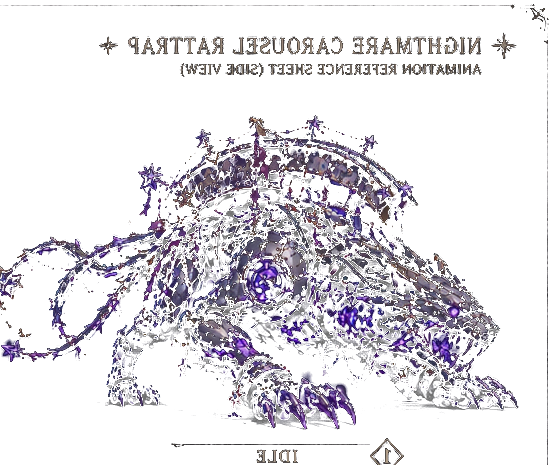
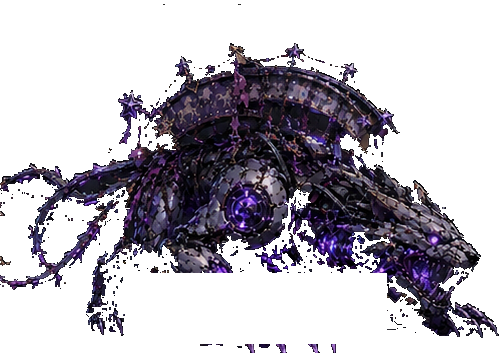
fix(assets): resolve boss opacity, remove stray text, scale up characters

diff --git a/src/main.js b/src/main.js
@@ -706,8 +706,8 @@ for (let key in GAME_ASSETS) {
             const player = {
                 x: 200,
                 y: GROUND_Y,
-                width: 32,
-                height: 56,
+                width: 65,
+                height: 135,
                 vx: 0,
                 speed: 4.0,
                 direction: 1, 
@@ -734,8 +734,8 @@ for (let key in GAME_ASSETS) {
             const boss = {
                 x: 600,
                 y: GROUND_Y,
-                width: 70,
-                height: 95,
+                width: 185,
+                height: 230,
                 state: 'idle', 
                 stateTimer: 60, // 最初は少し待機
                 currentPattern: null, 
@@ -830,6 +830,13 @@ for (let key in GAME_ASSETS) {
                 if (!BOSS_ARCHETYPES[type]) return;
                 boss.archetype = type;
                 const config = BOSS_ARCHETYPES[type];
+                if (type === 'hound') {
+                    boss.width = 185;
+                    boss.height = 230;
+                } else if (type === 'harpy') {
+                    boss.width = 140;
+                    boss.height = 215;
+                }
                 boss.maxHp = config.maxHp;
                 boss.hp = config.maxHp;
                 boss.lagHp = config.maxHp; // ラグバー初期化
@@ -940,7 +947,9 @@ for (let key in GAME_ASSETS) {
                 if (isShadow) {
                     ctx.save();
                     ctx.translate(x, drawY);
-                    ctx.scale(direction * 0.9, 0.9);
+                    let targetHeight = 160;
+                    let scale = targetHeight / img.height;
+                    ctx.scale(direction * 0.9 * scale, 0.9 * scale);
                     
                     // 残像のエフェクト加工（加算ブレンドとグロー）
                     ctx.globalCompositeOperation = 'screen';
@@ -956,7 +965,7 @@ for (let key in GAME_ASSETS) {
                 ctx.rotate(rotation);
 
                 // 高さをおよそ 85px にリサイズ（アス比維持）
-                let targetHeight = 85;
+                let targetHeight = 160;
                 let scale = targetHeight / img.height;
                 ctx.scale(scale * direction * scaleX, scale * scaleY);
 
@@ -1084,7 +1093,9 @@ for (let key in GAME_ASSETS) {
                         player.direction = toBossDir;
                         
                         const dist = Math.abs(boss.x - player.x);
-                        if (dist > 80 && dist < 240) {
+                        const minAssistDist = (player.width / 2) + (boss.width / 2) - 10;
+                        const maxAssistDist = minAssistDist + 180;
+                        if (dist > minAssistDist && dist < maxAssistDist) {
                             player.vx = toBossDir * 7.5; 
                         } else {
                             player.vx = 0;
@@ -1193,8 +1204,9 @@ for (let key in GAME_ASSETS) {
                     boss.x += boss.facing * 2.2 * speedFactor;
                     boss.x = Math.max(80, Math.min(CANVAS_WIDTH - 80, boss.x));
                     
-                    // プレイヤーとの距離が120px以下になったら、立ち止まって戦闘態勢（idle）へ
-                    if (dist <= 120) {
+                    // プレイヤーとの距離が適正値以下になったら、立ち止まって戦闘態勢（idle）へ
+                    const colDist = (player.width / 2) + (boss.width / 2) - 25;
+                    if (dist <= colDist + 50) {
                         boss.state = 'idle';
                         // 次の攻撃を繰り出すまでのディレイ（1.2秒〜2.0秒程度）を設定してテンポを遅くする
                         boss.stateTimer = Math.random() * 48 + 72;
@@ -1340,12 +1352,13 @@ for (let key in GAME_ASSETS) {
                 // ただし、ジャスト回避スロー中のダッシュ、または回避反撃突進（isCounter）のときはすり抜けを許可する
                 const pDist = Math.abs(boss.x - player.x);
                 const isPerfectDodgeActive = (player.state === 'dash' && player.dashWindow > 0 && slowMoTimer > 0) || player.isCounter;
-                if (pDist < 55 && !isPerfectDodgeActive && boss.state !== 'stun') {
+                const colDist = (player.width / 2) + (boss.width / 2) - 25;
+                if (pDist < colDist && !isPerfectDodgeActive && boss.state !== 'stun') {
                     // ボスとの接触時に押し戻す
                     if (player.x < boss.x) {
-                        player.x = boss.x - 55;
+                        player.x = boss.x - colDist;
                     } else {
-                        player.x = boss.x + 55;
+                        player.x = boss.x + colDist;
                     }
                     // ダッシュ中だった場合は衝突したため速度を0にする
                     if (player.state === 'dash') {
@@ -1388,7 +1401,8 @@ for (let key in GAME_ASSETS) {
                     // ターゲットアシスト: 踏み込み中にボスの手前（密着距離）に達したらスライドを停止
                     const dist = Math.abs(boss.x - player.x);
                     const toBossDir = boss.x > player.x ? 1 : -1;
-                    if (dist <= 85 && Math.sign(player.vx) === toBossDir && !player.isCounter) {
+                    const colDist = (player.width / 2) + (boss.width / 2) - 25;
+                    if (dist <= colDist + 10 && Math.sign(player.vx) === toBossDir && !player.isCounter) {
                         player.vx = 0;
                     }
                 } else {
@@ -1486,7 +1500,7 @@ for (let key in GAME_ASSETS) {
                 // ボス攻撃判定（当たり判定のタイミングと見た目を一致させる）
                 if (boss.attackActive && !boss.attackHasHit) {
                     const dist = Math.abs(boss.x - player.x);
-                    const reach = boss.currentPattern === 'thrust' ? 220 : (boss.currentPattern === 'slash' ? 180 : 130);
+                    const reach = boss.currentPattern === 'thrust' ? 300 : (boss.currentPattern === 'slash' ? 250 : 180);
                     const inFront = boss.facing === -1 ? (player.x <= boss.x + 10) : (player.x >= boss.x - 10);
                     const isCloseEnough = dist < reach && inFront;
 
@@ -1588,7 +1602,7 @@ for (let key in GAME_ASSETS) {
                     const dist = Math.abs(player.x - boss.x);
                     const inFront = player.direction === 1 ? (boss.x >= player.x - 30) : (boss.x <= player.x + 30);
                     // カウンター攻撃/パリィカウンター攻撃はめくりも許可
-                    const isCloseEnough = dist < 160 && (inFront || dist < 90 || player.isCounter || player.isParryCounter);
+                    const isCloseEnough = dist < 220 && (inFront || dist < 130 || player.isCounter || player.isParryCounter);
 
                     if (isCloseEnough) {
                         player.attackHasHit = true;
@@ -2362,7 +2376,7 @@ for (let key in GAME_ASSETS) {
                         }
                         
                         // 高さを 135px にリサイズ
-                        let bTargetHeight = 135;
+                        let bTargetHeight = 260;
                         let bScale = bTargetHeight / img.height;
                         ctx.scale(bScale * bScaleX, bScale * bScaleY);
                         
@@ -2406,7 +2420,7 @@ for (let key in GAME_ASSETS) {
                         }
                         
                         // 高さを 120px にリサイズ
-                        let hTargetHeight = 120;
+                        let hTargetHeight = 240;
                         let hScale = hTargetHeight / img.height;
                         ctx.scale(hScale * hScaleX, hScale * hScaleY);
                         
@@ -2541,7 +2555,7 @@ for (let key in GAME_ASSETS) {
                     ctx.lineWidth = 1.5;
                     ctx.strokeRect(-boss.width/2, -boss.height, boss.width, boss.height);
                     if (boss.attackActive) {
-                        const reach = boss.currentPattern === 'thrust' ? 140 : (boss.currentPattern === 'slash' ? 120 : 80);
+                        const reach = boss.currentPattern === 'thrust' ? 300 : (boss.currentPattern === 'slash' ? 250 : 180);
                         ctx.fillStyle = 'rgba(255, 0, 85, 0.2)';
                         ctx.fillRect(boss.facing === 1 ? -10 : -reach, -boss.height, reach + 10, boss.height);
                     }

diff --git a/process_boss_diffs_v6.py b/process_boss_diffs_v6.py
@@ -1,0 +1,203 @@
+import os
+import math
+from PIL import Image, ImageOps, ImageDraw
+
+diff_dir = r"C:\Users\motta\OneDrive\Desktop\死にゲーを作ろう\そざい\差分ファイル"
+output_dir = r"C:\Users\motta\.gemini\antigravity\scratch\factory-invaders\public\assets"
+
+os.makedirs(output_dir, exist_ok=True)
+
+boss_configs = {
+    "hound": {
+        "file": "ドリームハウンド差分.png",
+        "poses": {
+            # (col, row, flip_needed, list_of_erase_boxes)
+            "boss_hound_idle": (0, 0, True, [
+                [0, 0, 557, 80],       # Top title area
+                [150, 350, 410, 420],  # Bottom label
+                [0, 430, 557, 470],    # Bottom border
+                [0, 0, 20, 470],       # Left border
+                [537, 0, 557, 470]     # Right border
+            ]),
+            "boss_hound_telegraph": (1, 0, True, [
+                [0, 0, 557, 80],       # Top title area
+                [150, 350, 410, 420],  # Bottom label
+                [0, 430, 557, 470],    # Bottom border
+                [0, 0, 20, 470],       # Left border
+                [537, 0, 557, 470]     # Right border
+            ]),
+            "boss_hound_charge": (2, 0, True, [
+                [0, 0, 557, 80],       # Top title area
+                [150, 350, 410, 420],  # Bottom label
+                [0, 430, 557, 470],    # Bottom border
+                [0, 0, 20, 470],       # Left border
+                [537, 0, 557, 470]     # Right border
+            ]),
+            "boss_hound_stun": (1, 1, True, [
+                [150, 350, 410, 420],  # Bottom label
+                [0, 430, 557, 470],    # Bottom border
+                [0, 0, 20, 470],       # Left border
+                [537, 0, 557, 470]     # Right border
+            ]),
+        }
+    },
+    "harpy": {
+        "file": "ネオン・ハーピー差分.png",
+        "poses": {
+            # (col, row, flip_needed, list_of_erase_boxes)
+            "boss_harpy_idle": (0, 0, True, [
+                [0, 0, 557, 202],      # Complete top area including label & title
+                [0, 202, 60, 470],     # Left border
+                [497, 202, 557, 470],  # Right border
+                [0, 430, 557, 470]     # Bottom border
+            ]),
+            "boss_harpy_telegraph": (1, 0, True, [
+                [0, 0, 557, 235],      # Complete top area including label & title
+                [0, 235, 60, 470],     # Left border
+                [497, 235, 557, 470],  # Right border
+                [0, 430, 557, 470]     # Bottom border
+            ]),
+            "boss_harpy_attack": (2, 0, True, [
+                [0, 0, 557, 198],      # Top area
+                [0, 198, 220, 240],    # Left side below 198
+                [220, 198, 350, 210],  # "ATTACK" text in center
+                [350, 198, 557, 240],  # Right side below 198
+                [0, 430, 557, 470]     # Bottom border
+            ]),
+            "boss_harpy_stun": (1, 1, True, [
+                [0, 0, 557, 160],      # Top area including label
+                [0, 430, 557, 470]     # Bottom border
+            ]),
+        }
+    }
+}
+
+def remove_background_bfs(img, is_harpy):
+    img = img.convert("RGBA")
+    w, h = img.size
+    pixels = img.load()
+    
+    visited = [[False for _ in range(h)] for _ in range(w)]
+    queue = []
+    
+    # Background color range check
+    def is_bg_color(r, g, b):
+        if is_harpy:
+            return r < 38 and g < 38 and b < 48
+        else:
+            return r < 40 and g < 40 and b < 48
+        
+    # Seed BFS from all borders
+    for x in range(w):
+        for y in [0, h - 1]:
+            r, g, b = pixels[x, y][:3]
+            if is_bg_color(r, g, b):
+                queue.append((x, y))
+                visited[x][y] = True
+    for y in range(h):
+        for x in [0, w - 1]:
+            if not visited[x][y]:
+                r, g, b = pixels[x, y][:3]
+                if is_bg_color(r, g, b):
+                    queue.append((x, y))
+                    visited[x][y] = True
+                    
+    # BFS traversal
+    idx = 0
+    while idx < len(queue):
+        cx, cy = queue[idx]
+        cr, cg, cb = pixels[cx, cy][:3]
+        idx += 1
+        
+        for dx, dy in [(-1, 0), (1, 0), (0, -1), (0, 1)]:
+            nx, ny = cx + dx, cy + dy
+            if 0 <= nx < w and 0 <= ny < h and not visited[nx][ny]:
+                nr, ng, nb = pixels[nx, ny][:3]
+                if is_bg_color(nr, ng, nb):
+                    # Color difference to neighbor should be small to prevent leak
+                    dist = math.sqrt((nr - cr)**2 + (ng - cg)**2 + (nb - cb)**2)
+                    if dist < 12.0:
+                        visited[nx][ny] = True
+                        queue.append((nx, ny))
+                        
+    # Apply alpha channel
+    for x in range(w):
+        for y in range(h):
+            if visited[x][y]:
+                pixels[x, y] = (0, 0, 0, 0)
+            else:
+                r, g, b, a = pixels[x, y]
+                pixels[x, y] = (r, g, b, 255)
+                
+    return img
+
+def crop_to_content(img):
+    alpha = img.split()[-1]
+    bbox = alpha.getbbox()
+    if bbox:
+        left, top, right, bottom = bbox
+        left = max(0, left - 4)
+        top = max(0, top - 4)
+        right = min(img.width, right + 4)
+        bottom = min(img.height, bottom + 4)
+        return img.crop((left, top, right, bottom))
+    return img
+
+def main():
+    for boss_name, cfg in boss_configs.items():
+        file_path = os.path.join(diff_dir, cfg["file"])
+        if not os.path.exists(file_path):
+            print(f"Error: {file_path} does not exist!")
+            continue
+            
+        print(f"Processing boss: {boss_name} ({cfg['file']})...")
+        sheet = Image.open(file_path)
+        sheet_w, sheet_h = sheet.size
+        
+        # Sample base background color from (5,5)
+        bg_color = sheet.getpixel((5, 5))
+        
+        # Grid cell dimensions
+        cell_w = sheet_w // 3
+        cell_h = sheet_h // 2
+        
+        for pose_name, (col, row, flip, erase_boxes) in cfg["poses"].items():
+            print(f"  Extracting pose '{pose_name}' (col={col}, row={row})...")
+            
+            # Base cell box
+            left = col * cell_w
+            top = row * cell_h
+            right = (col + 1) * cell_w
+            bottom = (row + 1) * cell_h
+            
+            # Crop the cell
+            cell = sheet.crop((left, top, right, bottom))
+            
+            # Blank out the label boxes
+            if erase_boxes:
+                draw = ImageDraw.Draw(cell)
+                for box in erase_boxes:
+                    draw.rectangle(box, fill=bg_color)
+            
+            # Crop slightly to exclude original borders
+            cropped_cell = cell.crop((20, 20, cell_w - 20, cell_h - 20))
+            
+            # Remove background using BFS
+            cell_trans = remove_background_bfs(cropped_cell, is_harpy=(boss_name == "harpy"))
+            
+            # Crop to content
+            cell_cropped = crop_to_content(cell_trans)
+            
+            # Flip if needed
+            if flip:
+                cell_cropped = ImageOps.mirror(cell_cropped)
+                
+            # Save the cropped sprite
+            out_path = os.path.join(output_dir, f"{pose_name}.png")
+            cell_cropped.save(out_path, "PNG")
+            print(f"  Saved to {out_path} (Size: {cell_cropped.size})")
+
+    print("Sprite extraction v6 complete!")
+
+if __name__ == "__main__":
+    main()
